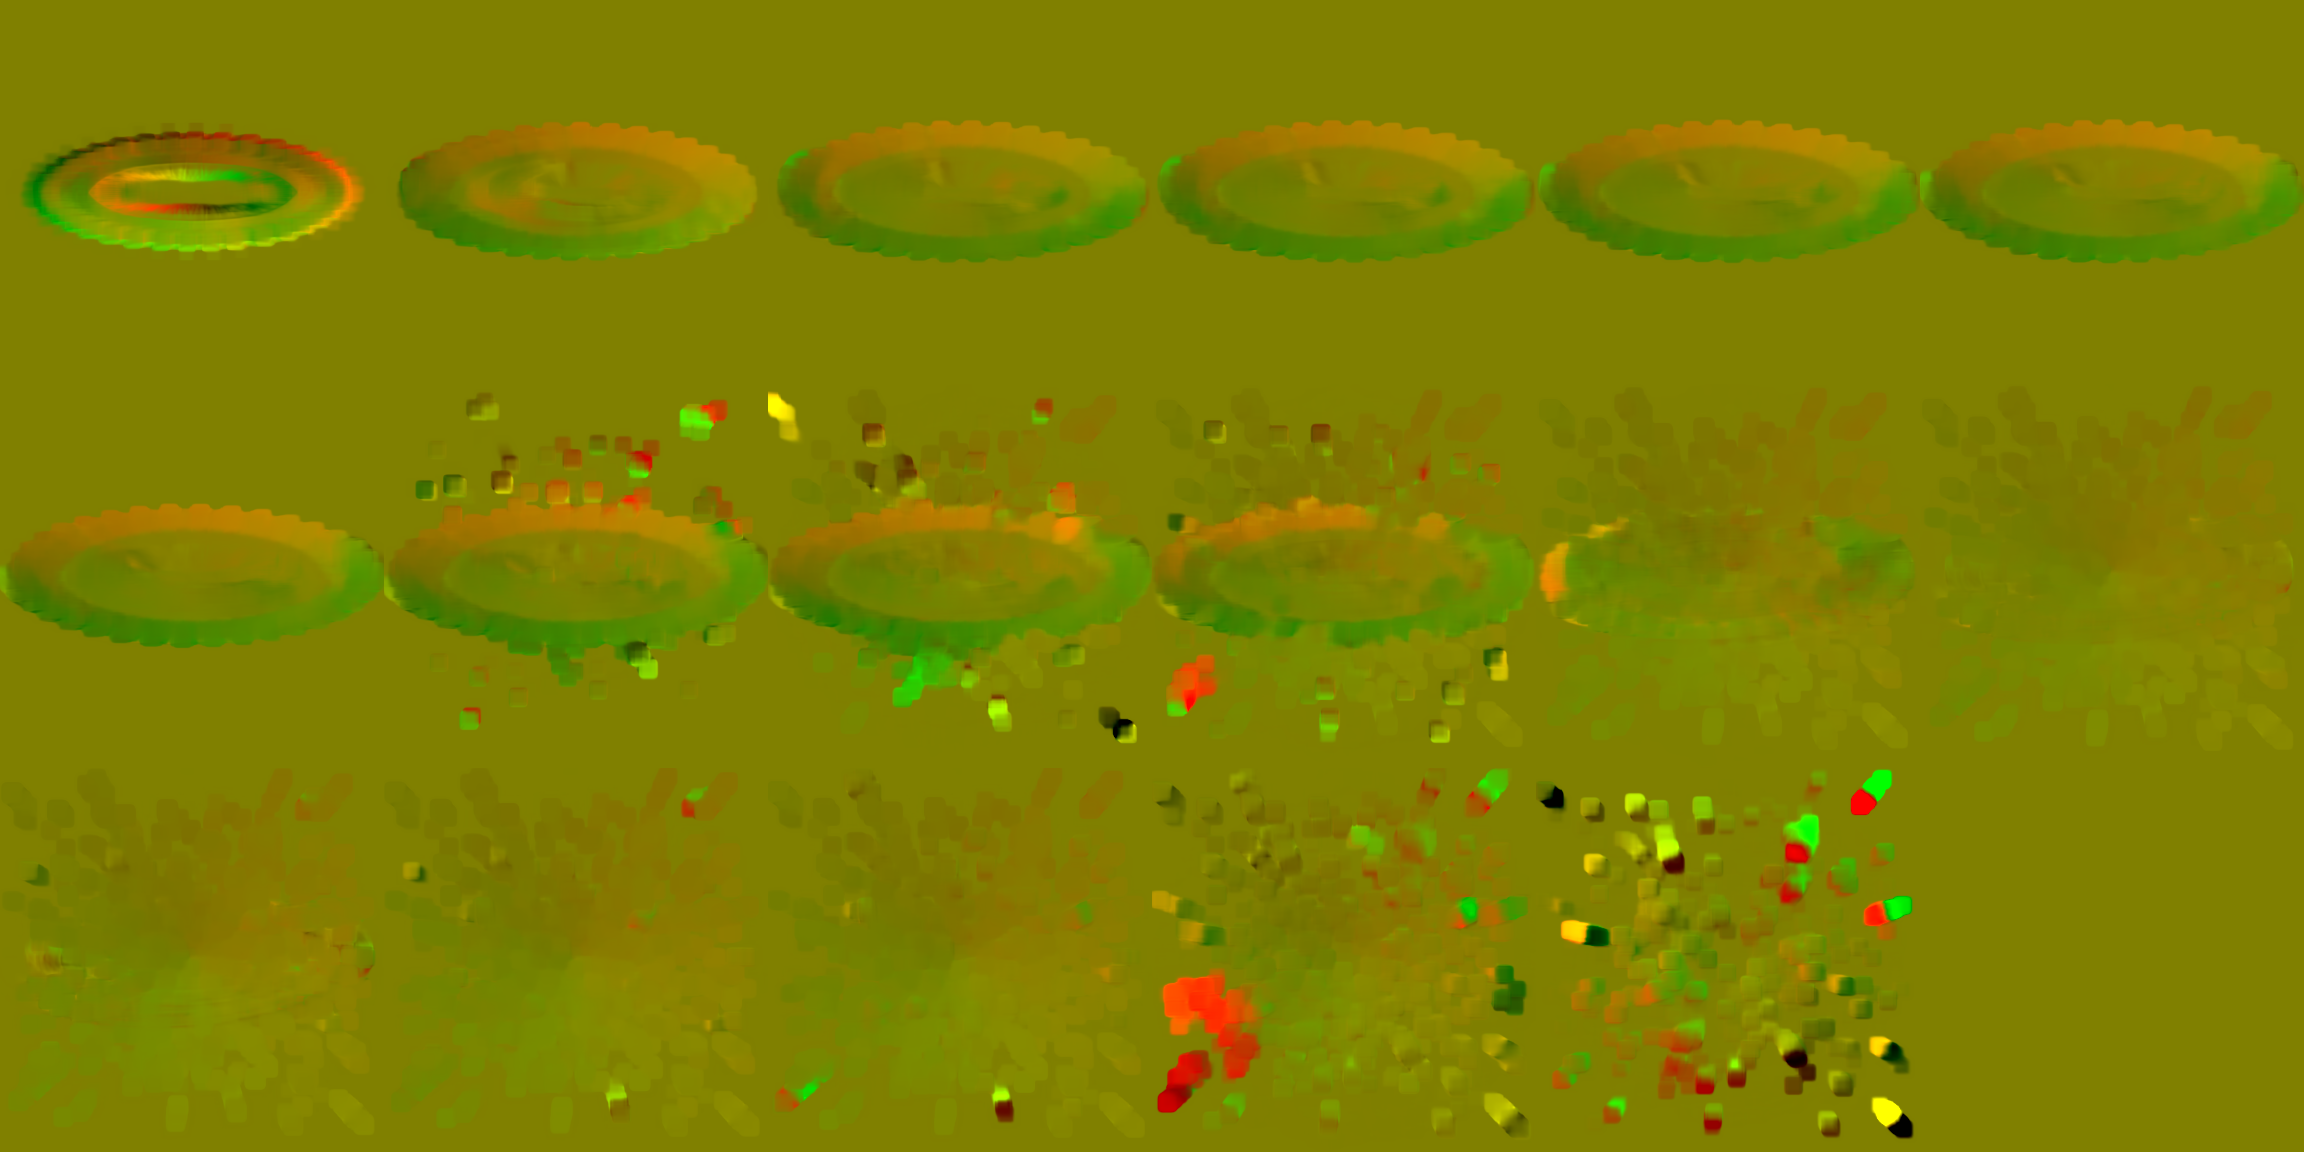
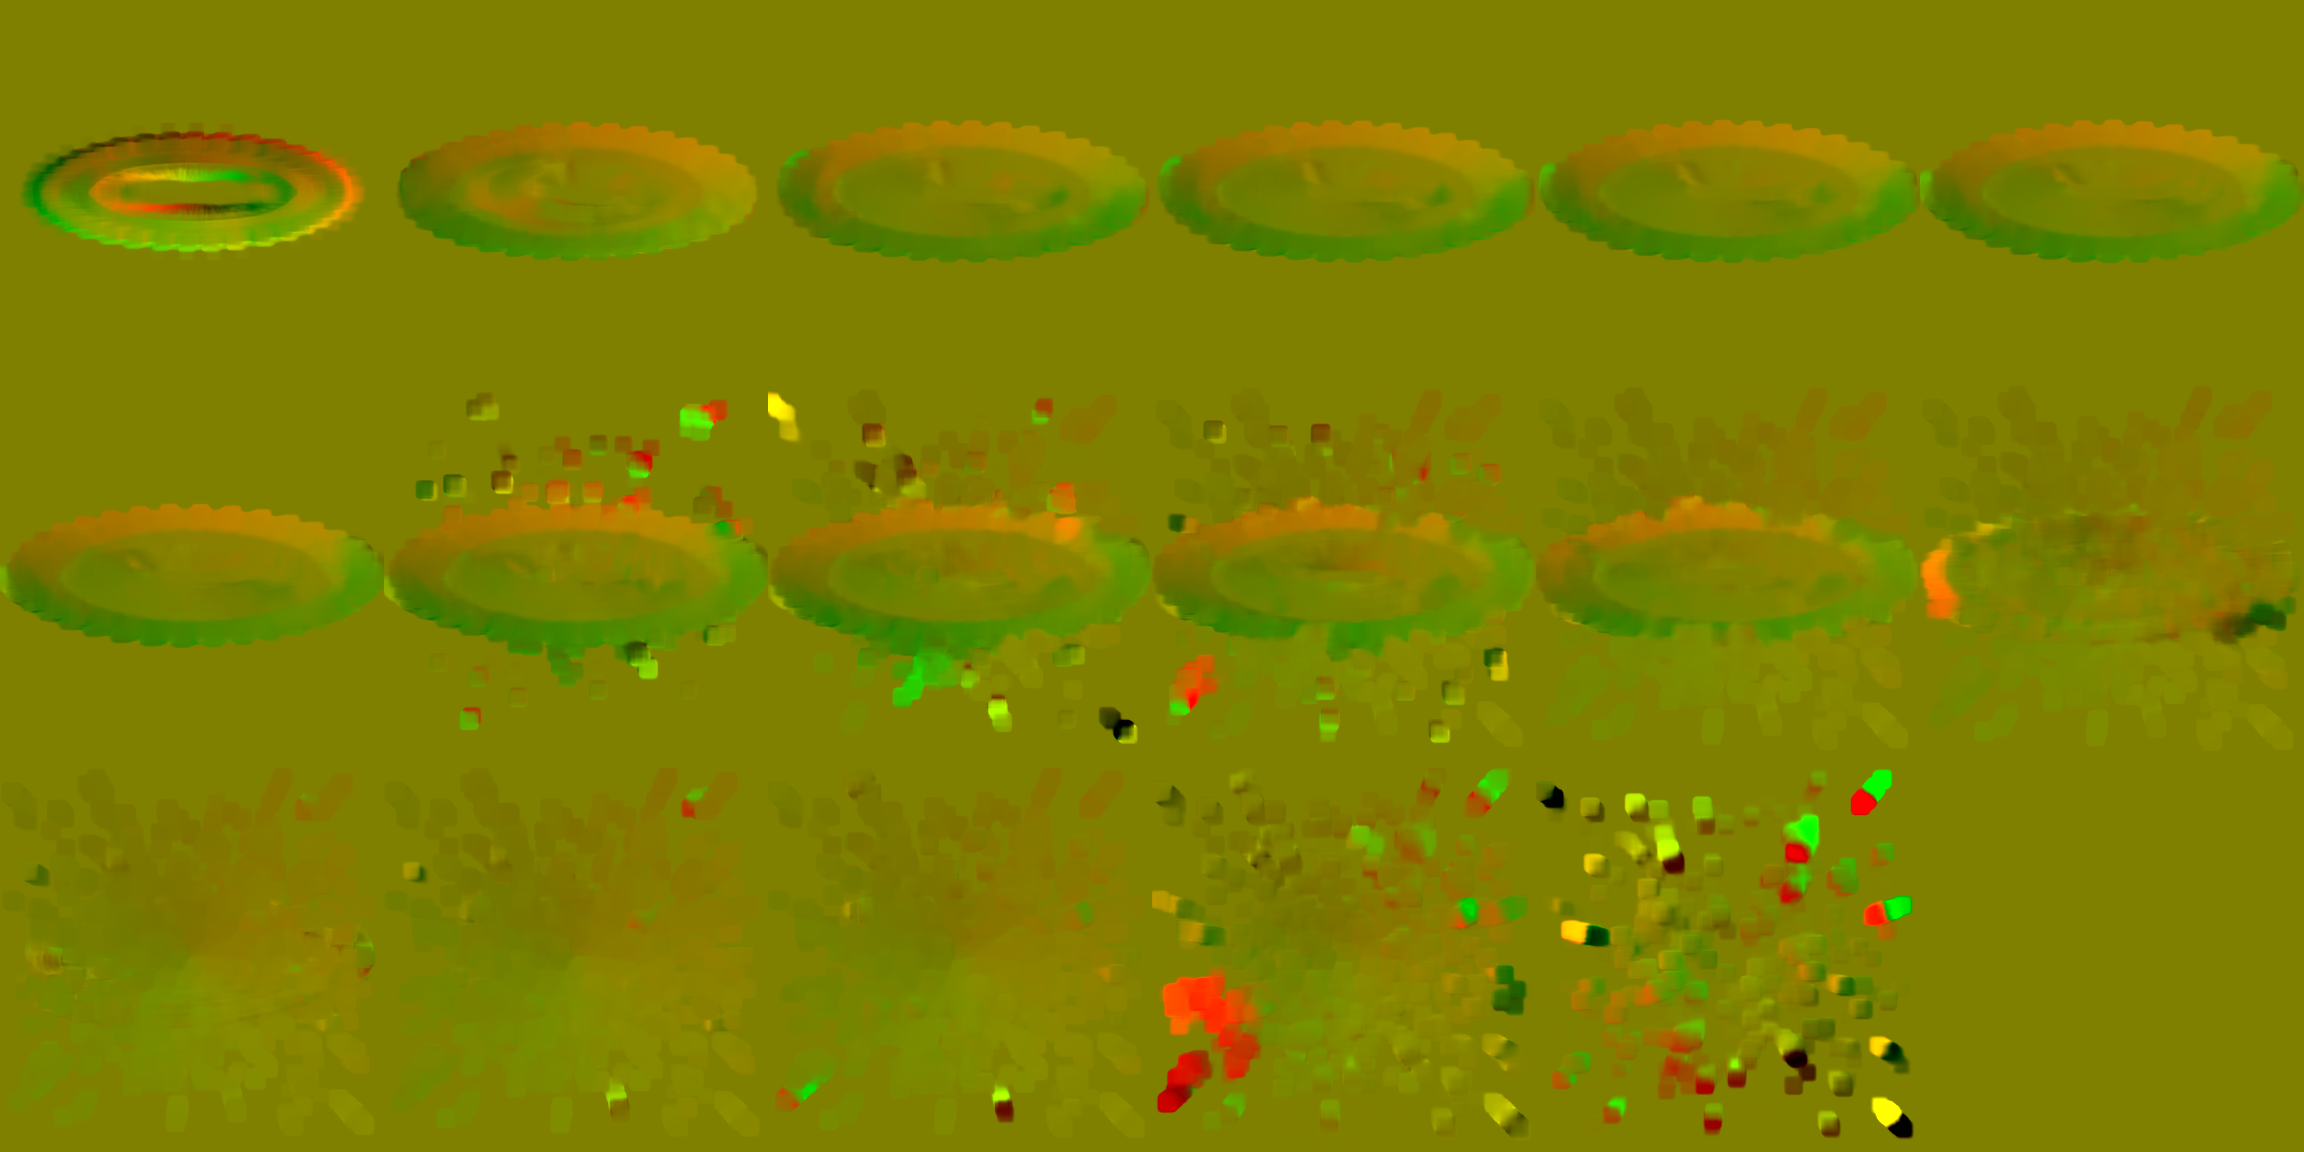
T92 addendum 3f: Sudarshana contact beat - disc PINS on the target 2 frames (bite before pass-through) + spark/glow at the pin + contact hit-stop, callout named last; cpulse STOP-AND-REPORT (hero element gone from DOM)

diff --git a/index.html b/index.html
@@ -8837,11 +8837,17 @@ async function playEvent(ev, snap, evs=[]){   // T83: evs = this action's event 
     if(LEGACY_VFX && dp){ VFX.sprBloom(dp.cx, dp.rect.top+dp.rect.height/2, 'destroy', dp.rect.width); VFX.sprSmoke(dp.cx, dp.rect.top+dp.rect.height/2, 1, dp.rect.width); }   // E4 white-gold bloom + E5 smoke at death [T77-gated; the dissolve-beat below stays — it carries card identity + the death beat]
     const dcard=(!snap[u])?findCardByUid(u):null; dissolveAt(dp, (snap[u]&&snap[u].name)||(dcard&&dcard.n), (snap[u]&&snap[u].color)||(dcard?(FAC_HEX[cardHomeFaction(dcard)]||'#e0483c'):null)); await cDelay(600); return; }   // 40ms hit-stop → death reads as a beat, then crack + shards + dwell. T88b: a kill-on-entry unit isn't in the snapshot → pull its name/colour from the card (in discard) so the dissolve still reads.
   if (ev.type==='passive' && ev.abilityName==='Sudarshana'){ const u=ev.targetUids[0]; const dp=posOf(u, snap);   // T92: Sudarshana Chakra — the THROWN spinning discus. Anchor = the REMOVED hero's rect (posOf via snapshot — the hero was on board before the splice). It is a REMOVAL, not a kill → NO death dissolve (the hero returns next round); the strike + the hero's disappearance from the row carry the story. The callout names the cause AT the hero so the temporary removal isn't a silent vanishing (T88 principle).
-    if(dp){ calloutAt(dp, 'Sudarshana Chakra'); await cDelay(300);
-      const caster=1-ownerPiOfUid(u), ch=document.querySelector(caster===1?'.half.opp':'.half.me');   // T92-amend: origin = the CASTER's half center (T79/T87 half idiom) — caster = the side opposite the removed hero's owner, cleanly derivable at the handler from the target uid.
+    if(dp){
+      const caster=1-ownerPiOfUid(u), ch=document.querySelector(caster===1?'.half.opp':'.half.me');   // origin = the CASTER's half center (T79/T87 half idiom) — caster = the side opposite the removed hero's owner, cleanly derivable at the handler from the target uid.
       let fx=null, fy=null; if(ch){ const r=ch.getBoundingClientRect(); fx=r.left+r.width/2; fy=r.top+r.height*0.5; }
-      VFX.sprSudarshana(dp.cx, dp.rect.top+dp.rect.height/2, dp.rect.width, fx, fy, 400);   // thrown flat from the caster's half to the target (~400ms flight); the impact phase bites + pins at the hero
-      await cDelay(700); }
+      VFX.sprSudarshana(dp.cx, dp.rect.top+dp.rect.height/2, dp.rect.width, fx, fy, 380);   // THROW — thrown flat from the caster's half; travelMs 380 → the flight completes at the frame-9 CONTACT PIN (cDelay scales by exactly vfxT, so the await below tracks the sprite frame timing).
+      await cDelay(380);   // FLIGHT (frames 1-8) → the disc reaches the target rect.
+      // 3f BITE (frames 9-10): the disc PINS at full presence + the baked spark burst (L3 f9-11) and glow (L4 f9-12) fire AT the contact point. The cast's spectacle hit-stop (110ms) fired back at the astra PLAY beat (~1s earlier); this contact is a separate, later beat, so we punctuate it with its OWN hit-stop — a combat-weight shake (a sharp precise BITE, distinct from the cast's board cataclysm) + a ~100ms freeze — so the hit is FELT at the target.
+      // ⚠ 3f STOP-AND-REPORT (cpulse): the removed hero's element is GONE from the live DOM by choreography time — runAction render()s the final board BEFORE this event loop, and render() draws op.heroes (fillRow oheroes), NOT removedHeroes. So posOf(u,snap) misses the DOM and returns el:null → there is NO live element at the vacated slot to cpulse. Per 3f we stop short of a substitute (no pulsing an adjacent unit or the empty row); the pin + sparks + hit-stop carry the contact.
+      screenShake(false); await cDelay(100);
+      await cDelay(300);   // the disc passes ON (fade 11-13) + linger; the hero is already off the board.
+      calloutAt(dp, 'Sudarshana Chakra');   // NAME the deed LAST, at the vacated slot (T88 legibility — a removal, not a kill; no death dissolve). calloutAt reads dp's coordinates, not dp.el (which is null here).
+      await cDelay(140); }
     return; }
   if (src && (ev.type==='buff'||ev.type==='token')){ cpulse(src.el,'choreo-src'); calloutAt(src, ev.abilityName); }
   const tgts=ev.targetUids||[];

diff --git a/scripts/animate_vfx.py b/scripts/animate_vfx.py
@@ -313,10 +313,11 @@ BRIEFS = {
   "sudarshana": {
     "seed": 0x5DA12A, "fps": 24, "frames": 18, "one_shot": True, "layers_dir": "sudarshana",
     "layers": [
-      # L1 DISCUS — FLIGHT: 2-frame rise to 0.85, spins as a squashed (0.35) ellipse through f8; IMPACT: passes THROUGH (opacity→0 by 12).
+      # L1 DISCUS — FLIGHT f1-8: 2-frame rise to 0.85, spins as a squashed (0.35) ellipse; CONTACT PIN f9-10: HELD at full
+      # presence (it bites before it vanishes); PASS-THROUGH f11-13: fade to 0 (the disc passes on). (3f addendum.)
       { "src": "L1_discus", "kind": "xform", "squash_y": 0.35,
-        "opacity": [[1, 2, 0.0, 0.85, "out"], [3, 8, 0.85, 0.85, "lin"], [9, 12, 0.85, 0.0, "in"]],
-        "scale":   [[1, 3, 0.9, 1.0, "out"], [4, 12, 1.0, 1.05, "lin"]],
+        "opacity": [[1, 2, 0.0, 0.85, "out"], [3, 10, 0.85, 0.85, "lin"], [11, 13, 0.85, 0.0, "in"]],
+        "scale":   [[1, 3, 0.9, 1.0, "out"], [4, 13, 1.0, 1.05, "lin"]],
         "rotate":  [1, 12, 84] },
       # L2 TRAIL — the squashed (0.35) spin-blur ring, MATCHED rotation, 0.6, lags the disc on arrival + lingers 2f past.
       { "src": "L2_trail", "kind": "xform", "squash_y": 0.35,
